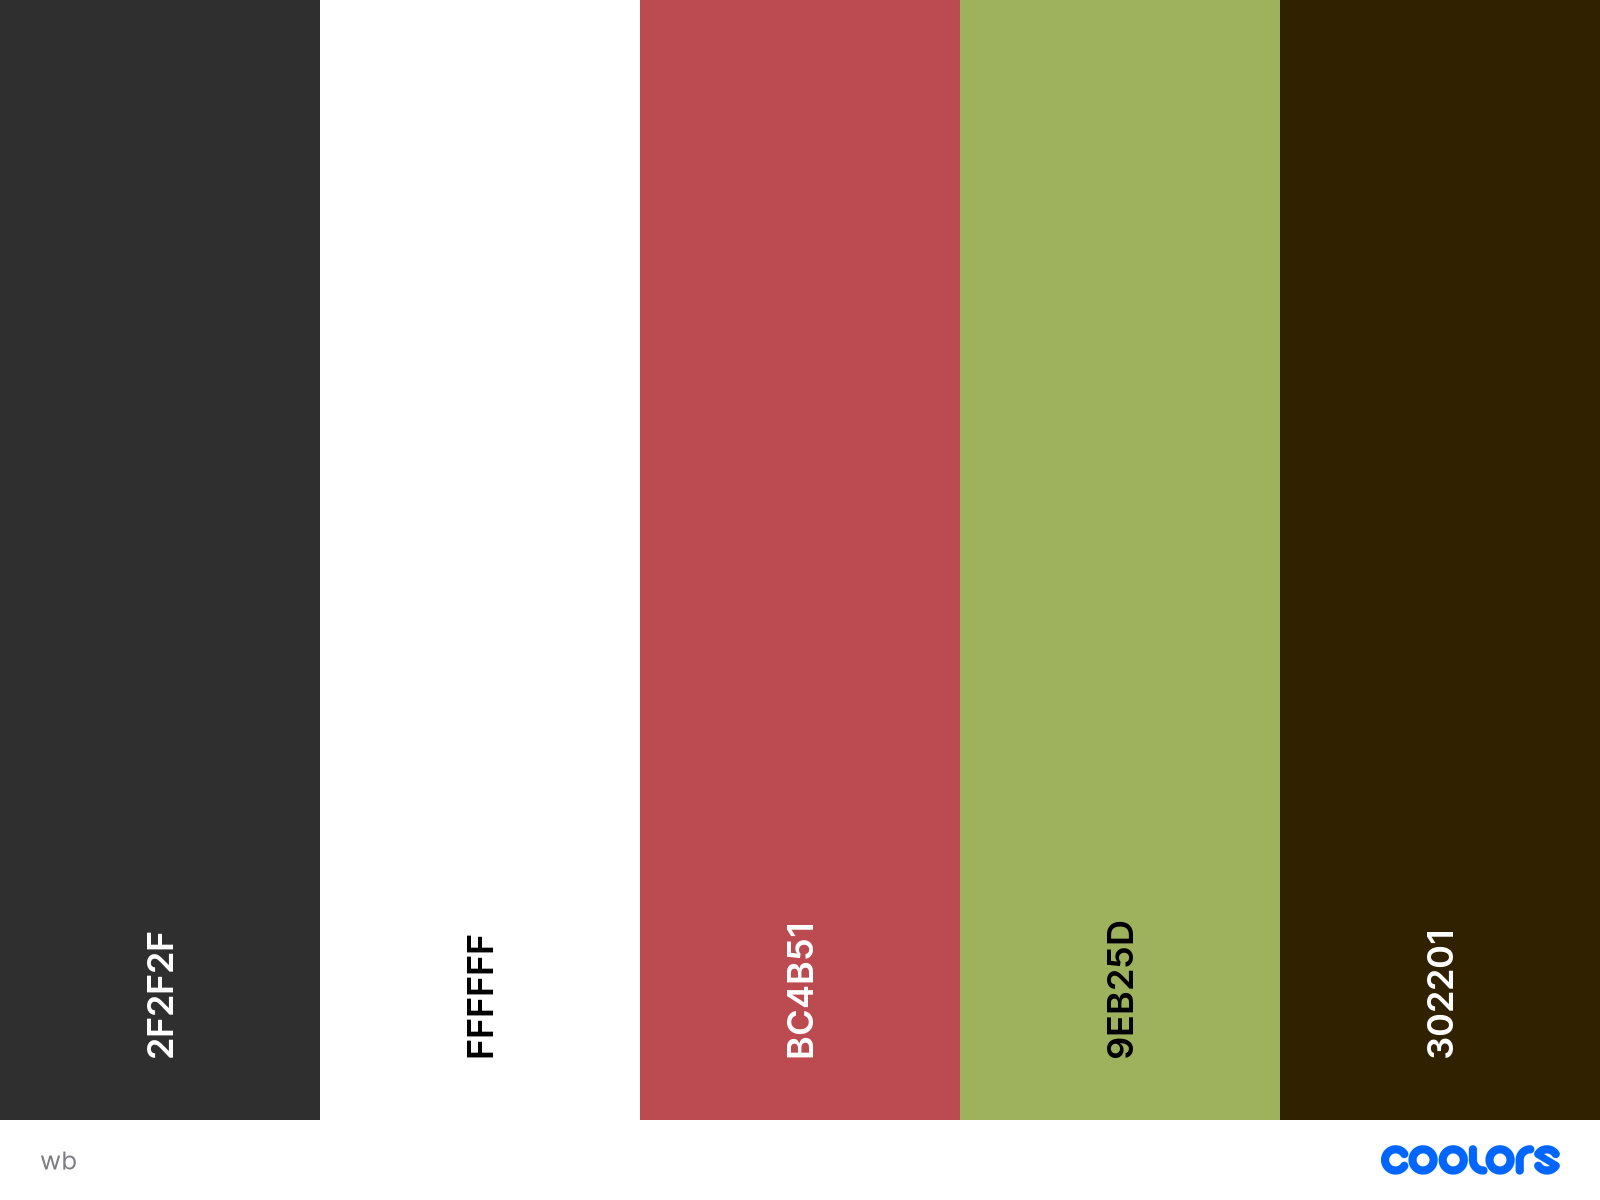
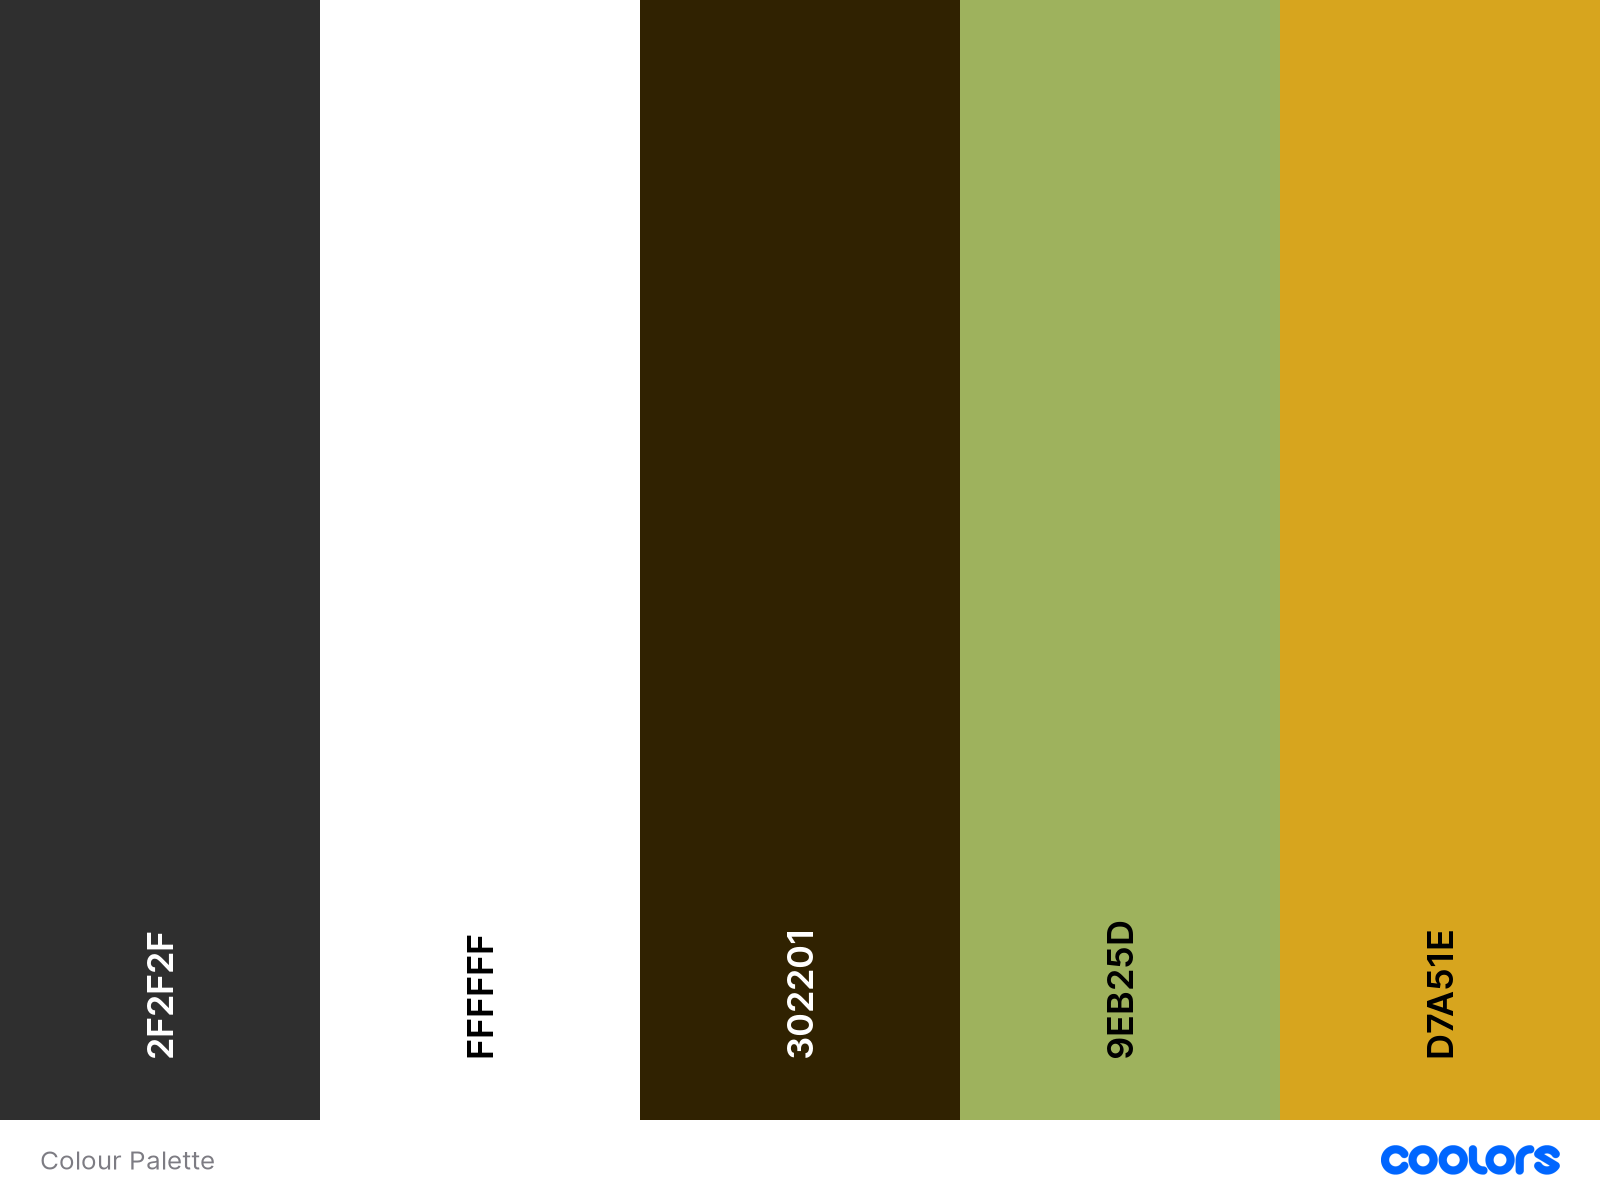
Update colour hex, add media queries & credits

diff --git a/static/css/style.css b/static/css/style.css
@@ -3,6 +3,7 @@
 :root {
     --white: #fff;
     --green: #9EB25D;
+    --orange: #d7a51e;
     --red: #BC4B51;
     --cafe: #302201;
     --black: #2F2F2F;
@@ -284,7 +285,7 @@ p {
 
 /* Style the Delete button */
 .btn-danger {
-    background-color: #ff3333;
+    background-color: var(--red);
     color: var(--white);
     padding: 10px 20px;
     border: none;
@@ -293,7 +294,7 @@ p {
 }
 
 .btn-danger:hover {
-    background-color: #ff0000;
+    background-color: var(--orange);
 }
 
 /* Style the Cancel button */
@@ -407,3 +408,52 @@ h2 {
 
 
 /* MEDIA QUERIES */
+@media (max-width: 768px) {
+
+    .center-container {
+        display: flex;
+        flex-direction: column;
+        align-items: center;
+    }
+
+
+    .menu-list {
+        max-height: none;
+        overflow-y: visible;
+        max-width: 100%;
+    }
+
+
+    .meal {
+        margin: 10px 0;
+    }
+
+
+    .dish img {
+        max-width: 80%;
+        height: auto;
+    }
+
+
+    .meal-name {
+        font-size: 18px;
+    }
+
+    .price {
+        font-size: 16px;
+    }
+
+    .meal-container {
+        padding: 10px;
+    }
+
+    .description {
+        font-size: 14px;
+        padding: 10px;
+        white-space: normal;
+    }
+
+    .row p.hr {
+        margin: 10px 0;
+    }
+}

diff --git a/README.md b/README.md
@@ -221,14 +221,14 @@ Please refer to [TESTING.md](TESTING.md) file for all testing carried out.
 
 ### Content
 
-- [Title](link)
+- [Ramen](https://ramen.ie/menu/)
 
 ### Media
 
 - [Ramen bowl](https://www.pexels.com/photo/a-bowl-of-ramen-17952227/)
 - [Women on bench](https://www.pexels.com/photo/two-smiling-women-sitting-on-wooden-bench-1267696/)
 - [Avocado & egg toast](https://www.pexels.com/photo/pastry-and-boiled-egg-on-plate-566566/)
-
+- [Restaurant interior](https://www.freepik.com/free-photo/table-set-dinning-table_1241187.htm#query=healty%20restaurant%20interior&position=3&from_view=search&track=ais&uuid=26e9e053-f786-4e5b-a04b-8884c2aa0d61)
 
 ### Acknowledgments
 
